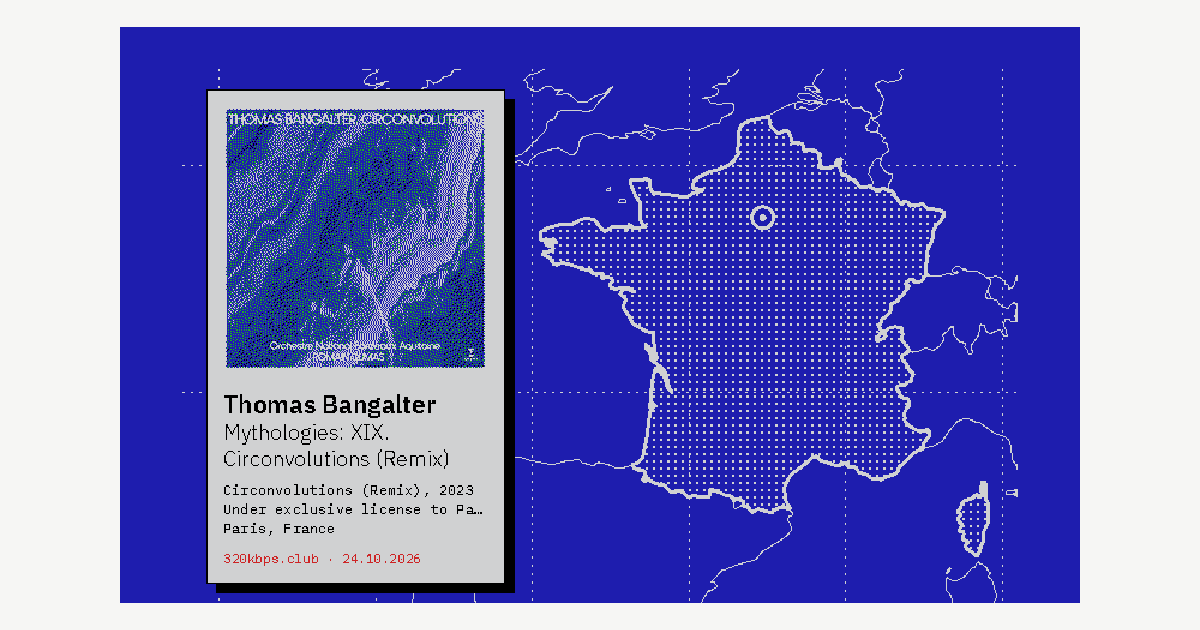
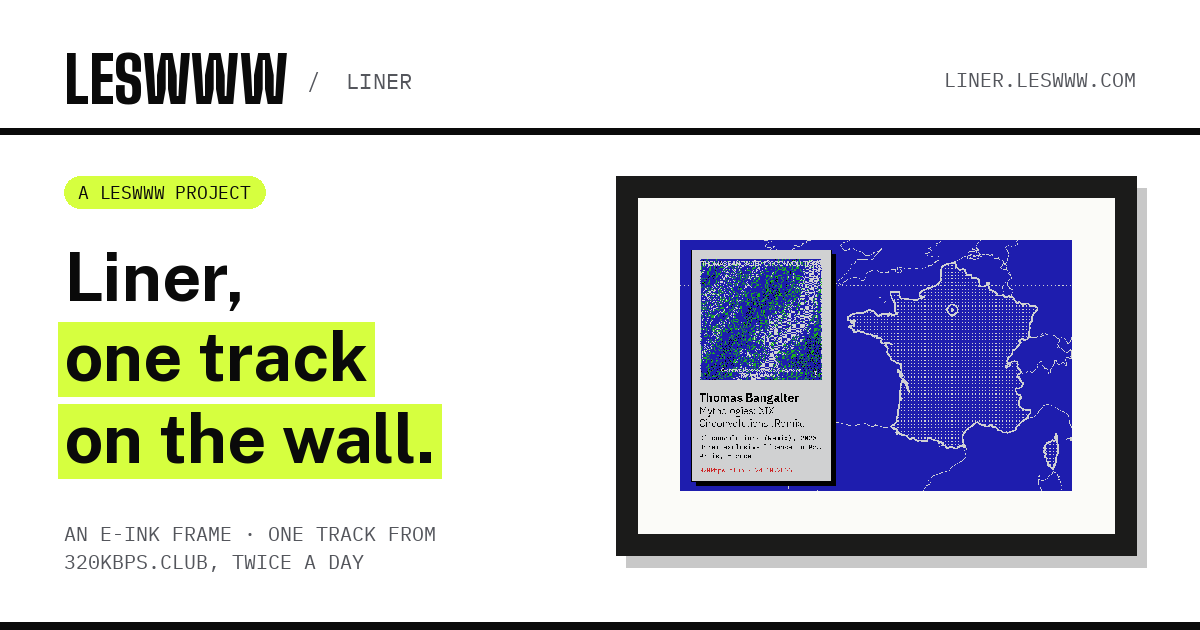
SEO and GEO for the landing page, Open Graph image, Vercel Analytics
- Full metadata: canonical, Open Graph and Twitter cards, keywords, authorship.
- JSON-LD graph: the page, Liner as a creative work, its source code, Florent
  Bertiaux, LesWWW and 320kbps.club, linked together.
- robots.txt (control room and API excluded), sitemap.xml, and llms.txt with
  plain facts for AI assistants.
- Open Graph image in the LesWWW charter; LesWWW icons.
- Footer links to the legal notice, privacy policy, terms and LLM info on
  leswww.com.
- Vercel Analytics.

diff --git a/lib/jsonld.ts b/lib/jsonld.ts
@@ -1,0 +1,79 @@
+import { SITE } from "./site";
+
+const STUDIO = "https://www.leswww.com";
+
+/** One graph for the landing page: the page, the object, its code, its maker and the two brands around it. */
+export function landingJsonLd() {
+  return {
+    "@context": "https://schema.org",
+    "@graph": [
+      {
+        "@type": "WebPage",
+        "@id": `${SITE.url}/#webpage`,
+        url: SITE.url,
+        name: SITE.title,
+        description: SITE.description,
+        inLanguage: "en",
+        primaryImageOfPage: `${SITE.url}/og.png`,
+        about: { "@id": `${SITE.url}/#liner` },
+        author: { "@id": `${STUDIO}/#person` },
+        publisher: { "@id": `${STUDIO}/#service` },
+      },
+      {
+        "@type": "CreativeWork",
+        "@id": `${SITE.url}/#liner`,
+        name: "Liner",
+        alternateName: "Liner by LesWWW",
+        description: SITE.description,
+        url: SITE.url,
+        image: `${SITE.url}/og.png`,
+        genre: ["E-ink art", "Music discovery", "Data visualisation"],
+        keywords: "e-ink, Raspberry Pi, Inky Impression, album art, liner notes, MusicBrainz, maps",
+        creator: { "@id": `${STUDIO}/#person` },
+        publisher: { "@id": `${STUDIO}/#service` },
+        isBasedOn: { "@type": "WebSite", name: "320kbps.club", url: SITE.music },
+        workExample: { "@id": `${SITE.url}/#code` },
+        license: "https://opensource.org/licenses/MIT",
+      },
+      {
+        "@type": "SoftwareSourceCode",
+        "@id": `${SITE.url}/#code`,
+        name: "leswww-liner",
+        codeRepository: SITE.repo,
+        programmingLanguage: ["Python", "TypeScript"],
+        runtimePlatform: ["Raspberry Pi OS", "Vercel"],
+        license: "https://opensource.org/licenses/MIT",
+        author: { "@id": `${STUDIO}/#person` },
+      },
+      {
+        "@type": "Person",
+        "@id": `${STUDIO}/#person`,
+        name: "Florent Bertiaux",
+        url: STUDIO,
+        image: `${SITE.url}/florent.png`,
+        jobTitle: "Creative technologist",
+        description: "Creative, curator and geek: runs LesWWW and curates 320kbps.club.",
+        homeLocation: { "@type": "Place", name: "Lille, France" },
+        sameAs: [SITE.linkedin, SITE.music, STUDIO],
+      },
+      {
+        "@type": "ProfessionalService",
+        "@id": `${STUDIO}/#service`,
+        name: "LesWWW",
+        slogan: "Why. What. Which way.",
+        url: STUDIO,
+        logo: `${STUDIO}/brand/leswww-logo-transparent.png`,
+        address: { "@type": "PostalAddress", addressLocality: "Lille", addressCountry: "FR" },
+        founder: { "@id": `${STUDIO}/#person` },
+      },
+      {
+        "@type": "WebSite",
+        "@id": `${SITE.music}/#website`,
+        name: "320kbps.club",
+        url: SITE.music,
+        description: "Hand-curated music discovery, one track at a time.",
+        creator: { "@id": `${STUDIO}/#person` },
+      },
+    ],
+  };
+}

diff --git a/app/layout.tsx b/app/layout.tsx
@@ -1,5 +1,7 @@
 import type { Metadata, Viewport } from "next";
+import { Analytics } from "@vercel/analytics/next";
 import { Big_Shoulders, IBM_Plex_Mono, Public_Sans } from "next/font/google";
+import { SITE } from "@/lib/site";
 import "./globals.css";
 
 // The LesWWW trio, as on leswww.com: headings, body, labels
@@ -8,12 +10,31 @@ const sans = Public_Sans({ subsets: ["latin"], variable: "--sans" });
 const mono = IBM_Plex_Mono({ subsets: ["latin"], weight: "400", variable: "--mono" });
 
 export const metadata: Metadata = {
-  metadataBase: new URL("https://liner.leswww.com"),
-  title: "Liner · one track on the wall · a LesWWW project",
-  description:
-    "Liner is an e-ink frame that hangs one track from 320kbps.club at a time: the cover and its liner notes on a museum label, over a map of where the artist comes from. A LesWWW project.",
-  openGraph: { images: ["/og.png"] },
+  metadataBase: new URL(SITE.url),
+  title: { default: SITE.title, template: "%s · Liner" },
+  description: SITE.description,
+  applicationName: "Liner",
+  authors: [{ name: "Florent Bertiaux", url: "https://www.leswww.com" }],
+  creator: "Florent Bertiaux",
+  publisher: "LesWWW",
+  keywords: [
+    "e-ink frame", "Raspberry Pi", "Inky Impression", "Spectra 6", "music discovery", "320kbps.club",
+    "album art", "liner notes", "MusicBrainz", "open source", "LesWWW",
+  ],
+  category: "technology",
+  alternates: { canonical: "/" },
+  openGraph: {
+    type: "website",
+    url: SITE.url,
+    siteName: "Liner · LesWWW",
+    title: SITE.title,
+    description: SITE.description,
+    locale: "en_US",
+    images: [{ url: "/og.png", width: 1200, height: 630, alt: "Liner: an e-ink frame showing Thomas Bangalter over a blue map of France" }],
+  },
+  twitter: { card: "summary_large_image", title: SITE.title, description: SITE.description, images: ["/og.png"] },
   appleWebApp: { capable: true, title: "Liner", statusBarStyle: "default" },
+  other: { "llms-txt": `${SITE.url}/llms.txt` },
 };
 
 export const viewport: Viewport = {
@@ -28,7 +49,10 @@ export const viewport: Viewport = {
 export default function RootLayout({ children }: { children: React.ReactNode }) {
   return (
     <html lang="en" className={`${display.variable} ${sans.variable} ${mono.variable}`}>
-      <body>{children}</body>
+      <body>
+        {children}
+        <Analytics />
+      </body>
     </html>
   );
 }

diff --git a/lib/site.ts b/lib/site.ts
@@ -1,0 +1,19 @@
+/** Who and where: shared by metadata, structured data, robots, sitemap and llms.txt. */
+export const SITE = {
+  url: "https://liner.leswww.com",
+  title: "Liner · an e-ink frame for one track at a time · a LesWWW project",
+  description:
+    "Liner is an open-source e-ink frame that hangs one track from 320kbps.club at a time, twice a day: the cover and its liner notes on a museum label, laid over a map of where the artist comes from. Raspberry Pi Zero 2 W, Pimoroni Inky Impression Spectra 6. A LesWWW project by Florent Bertiaux.",
+  repo: "https://github.com/kxrz/leswww-liner",
+  studio: "https://www.leswww.com",
+  music: "https://www.320kbps.club",
+  linkedin: "https://www.linkedin.com/in/florentbertiaux",
+} as const;
+
+/** Legal pages live on the main LesWWW site. */
+export const LEGAL = [
+  { label: "Legal notice", href: `${SITE.studio}/mentions-legales` },
+  { label: "Privacy", href: `${SITE.studio}/politique-de-confidentialite` },
+  { label: "Terms", href: `${SITE.studio}/cgv` },
+  { label: "LLM info", href: `${SITE.studio}/llm-info` },
+] as const;

diff --git a/app/Chrome.tsx b/app/Chrome.tsx
@@ -1,5 +1,6 @@
 import Link from "next/link";
 import { Wordmark } from "./Logo";
+import { LEGAL } from "@/lib/site";
 
 /** Sticky header, as on leswww.com: the wordmark on the left, mono labels and one lemon block on the right. */
 export function Nav({ control = false }: { control?: boolean }) {
@@ -38,6 +39,9 @@ export function Footer() {
           <a href="https://www.320kbps.club">320kbps.club</a>
           <a href="https://github.com/kxrz/leswww-liner">GitHub</a>
           <a href="https://github.com/kxrz/leswww-liner/blob/main/LICENSE">MIT License</a>
+          {LEGAL.map((l) => (
+            <a key={l.href} href={l.href}>{l.label}</a>
+          ))}
         </nav>
         <p className="fine">
           © LesWWW {new Date().getFullYear()} · Florent Bertiaux, Lille. Music curated on{" "}

diff --git a/app/page.tsx b/app/page.tsx
@@ -1,6 +1,7 @@
 import Link from "next/link";
 import { Footer, Nav } from "./Chrome";
 import { Frame } from "./Frame";
+import { landingJsonLd } from "@/lib/jsonld";
 import { listVisuals, readStatus, slug } from "@/lib/store";
 
 // Public page: rebuilt at most every ten minutes, so a busy day costs nothing to the frame's storage
@@ -18,6 +19,7 @@ export default async function Home() {
 
   return (
     <>
+      <script type="application/ld+json" dangerouslySetInnerHTML={{ __html: JSON.stringify(landingJsonLd()) }} />
       <Nav />
       <main className="wrap">
         <section className="hero">

diff --git a/app/robots.ts b/app/robots.ts
@@ -1,0 +1,11 @@
+import type { MetadataRoute } from "next";
+import { SITE } from "@/lib/site";
+
+// Search engines and AI crawlers are welcome on the landing page; the control room and the API are private.
+export default function robots(): MetadataRoute.Robots {
+  return {
+    rules: [{ userAgent: "*", allow: "/", disallow: ["/control", "/api/"] }],
+    sitemap: `${SITE.url}/sitemap.xml`,
+    host: SITE.url,
+  };
+}

diff --git a/app/sitemap.ts b/app/sitemap.ts
@@ -1,0 +1,9 @@
+import type { MetadataRoute } from "next";
+import { SITE } from "@/lib/site";
+
+export default function sitemap(): MetadataRoute.Sitemap {
+  return [
+    { url: SITE.url, changeFrequency: "daily", priority: 1 },
+    { url: `${SITE.url}/llms.txt`, changeFrequency: "monthly", priority: 0.3 },
+  ];
+}
